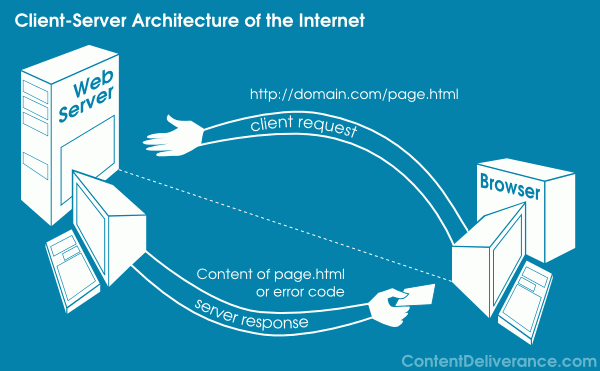
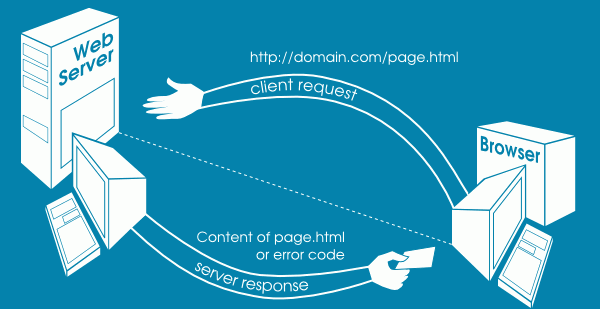
added one more image

diff --git a/index.html b/index.html
@@ -131,6 +131,9 @@
 						<section>
 							<h1>Websites</h1>
 							<img src="images/clientServer.png" alt="">
+						</section>
+						<section>
+							<img class="fullScreenImage" src="images/internet2.jpg" alt="">
 						</section>						
 						<section>							
 							<h2>High Perf Network</h2>
